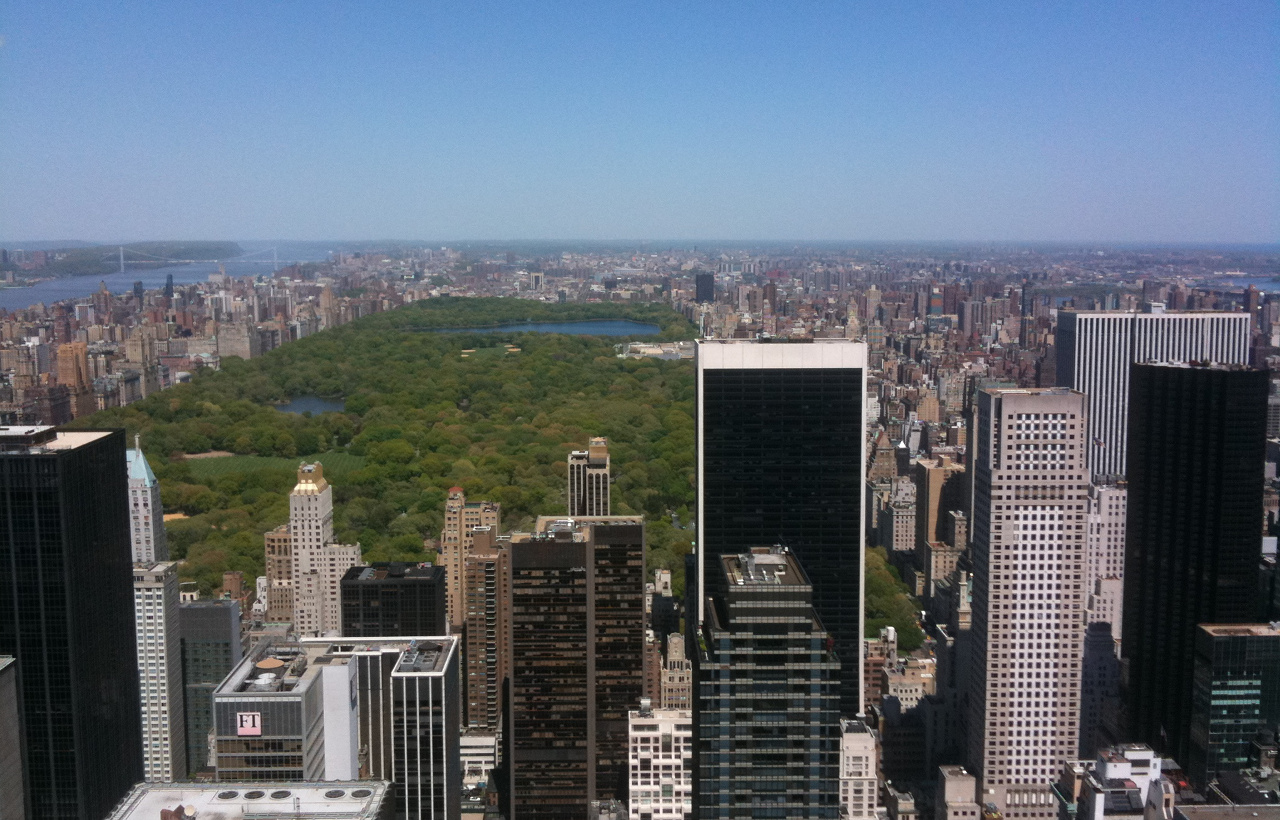
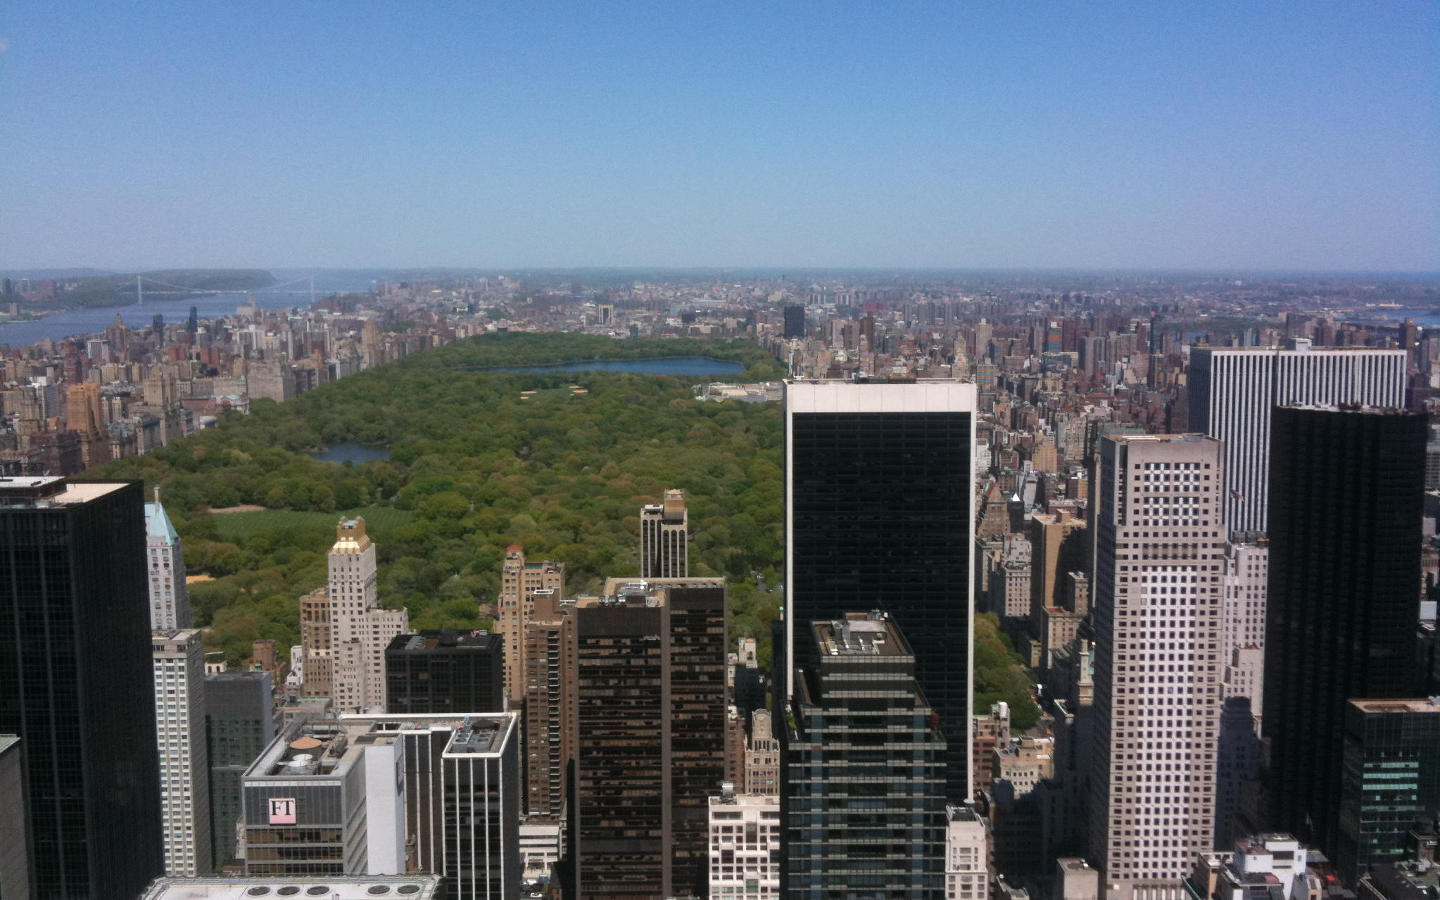
Reworked images, added retina versions.

Changed region(s): [[0.0, 0.2744, 1.0, 1.0], [0.9375, 0.7317, 1.0, 0.7927], [0.0, 0.7927, 0.0312, 0.8537]]

diff --git a/index.html b/index.html
@@ -46,13 +46,13 @@
           <div class="project">
             <h3>GovWatch</h3>
             <img src="img/govwatch.png" alt="GovWatch screenshot">
-            <p>This was my first project. It utilizes the Congress gem with data from the Sunglight Foundation. Users can see recent activity in both houses of Congress, as well as see who their representatives are. This was built using HTML, CSS, and Ruby on Rails.</p>
+            <p class="project_text">This was my first project. It utilizes the Congress gem with data from the Sunglight Foundation. Users can see recent activity in both houses of Congress, as well as see who their representatives are. This was built using HTML, CSS, and Ruby on Rails.</p>
             <p>URL: <a href="http://govwatch.herokuapp.com" target=" ">http://govwatch.herokuapp.com</a></p>
           </div>
           <div class="project">
             <h3>Vibe</h3>
             <img src="img/vibe.png" alt="Vibe screenshot">
-            <p>This was the second project and was a group project. For this project I worked on the front-end. I was primarily reponsible for the jQuery animations. Enter in a city and you will see a set of images from different social media sites animate across the page. This will give you the "vibe" in that location.</p>
+            <p class="project_text">This was the second project and was a group project. For this project I worked on the front-end. I was primarily reponsible for the jQuery animations. Enter in a city and you will see a set of images from different social media sites animate across the page. This will give you the "vibe" in that location.</p>
             <p>URL: <a href="http://thevibe.herokuapp.com" target=" ">http://thevibe.herokuapp.com</a></p>
           </div>
       </article>

diff --git a/css/style.css b/css/style.css
@@ -21,6 +21,7 @@ body {
   width: 100%; 
   max-width: 1920px; 
   position: relative; 
+  white-space: nowrap;
 }
 
 #experience {
@@ -69,8 +70,15 @@ article {
 }
 
 .project {
-  width: 1000px;
-  float: left;
+  width: 800px;
+  display: inline-block;
+  margin-right: 10px;
+  overflow: scroll;
+}
+
+.project_text {
+  float: right;
+  overflow: scroll;
 }
 
 p {
